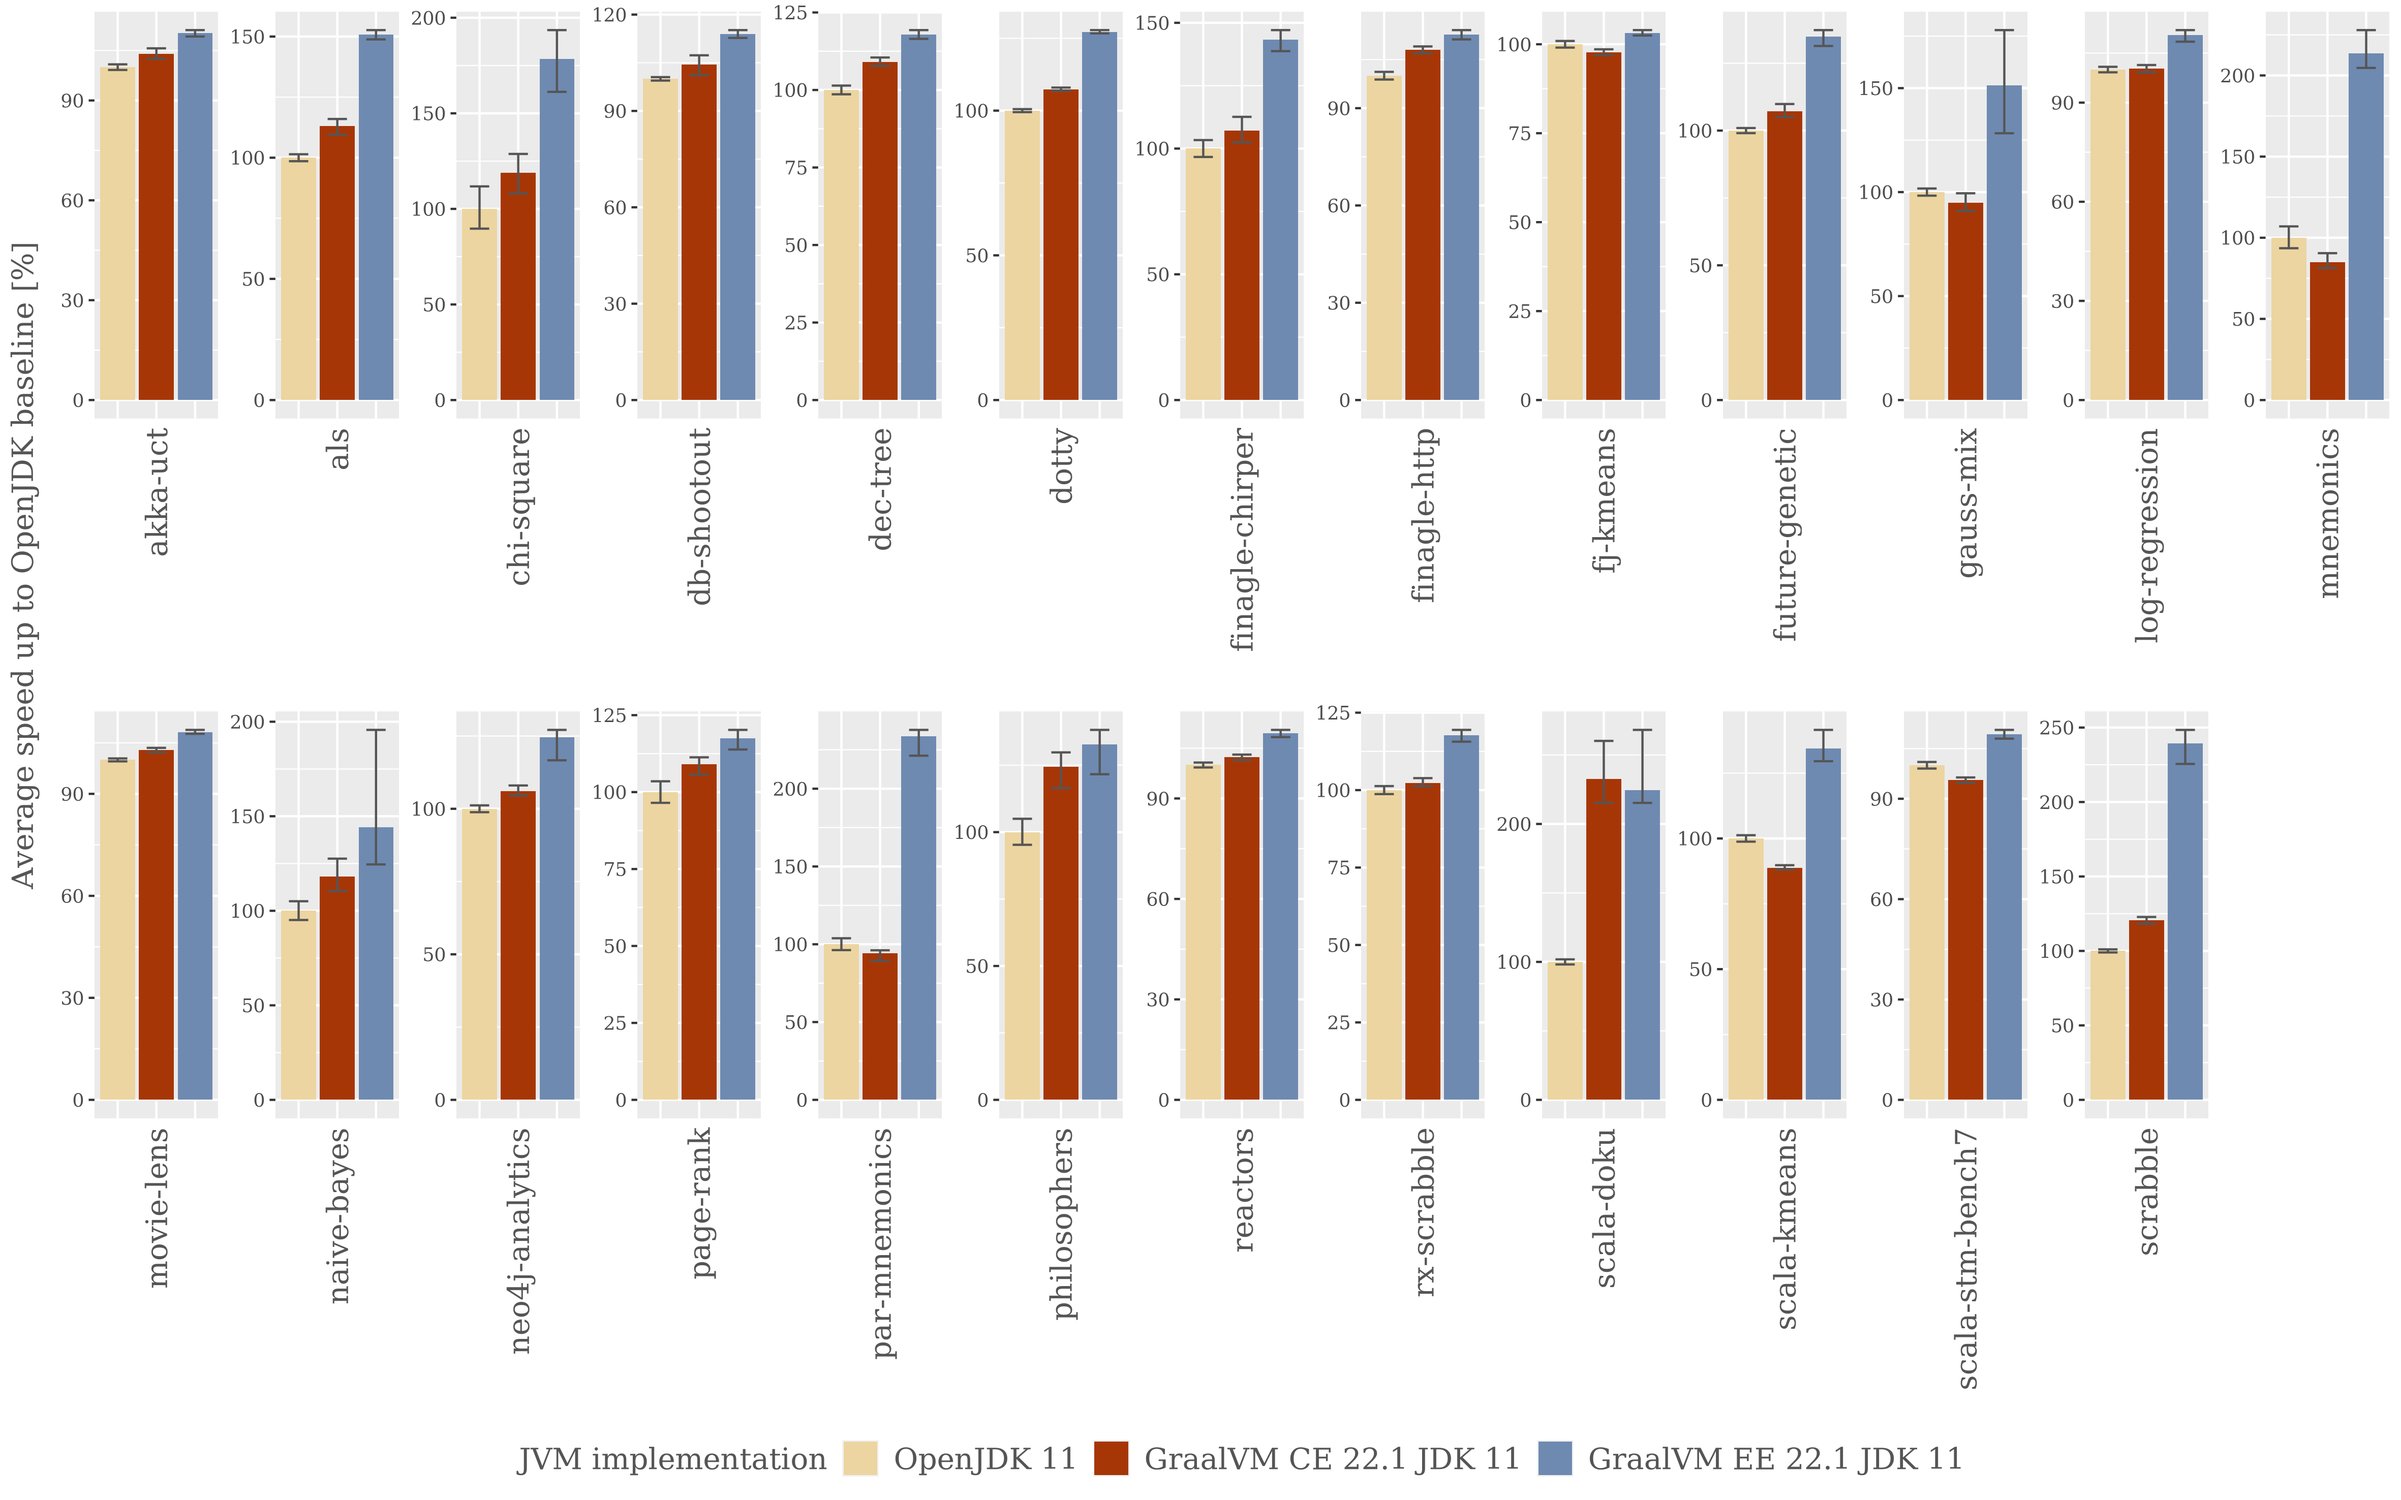
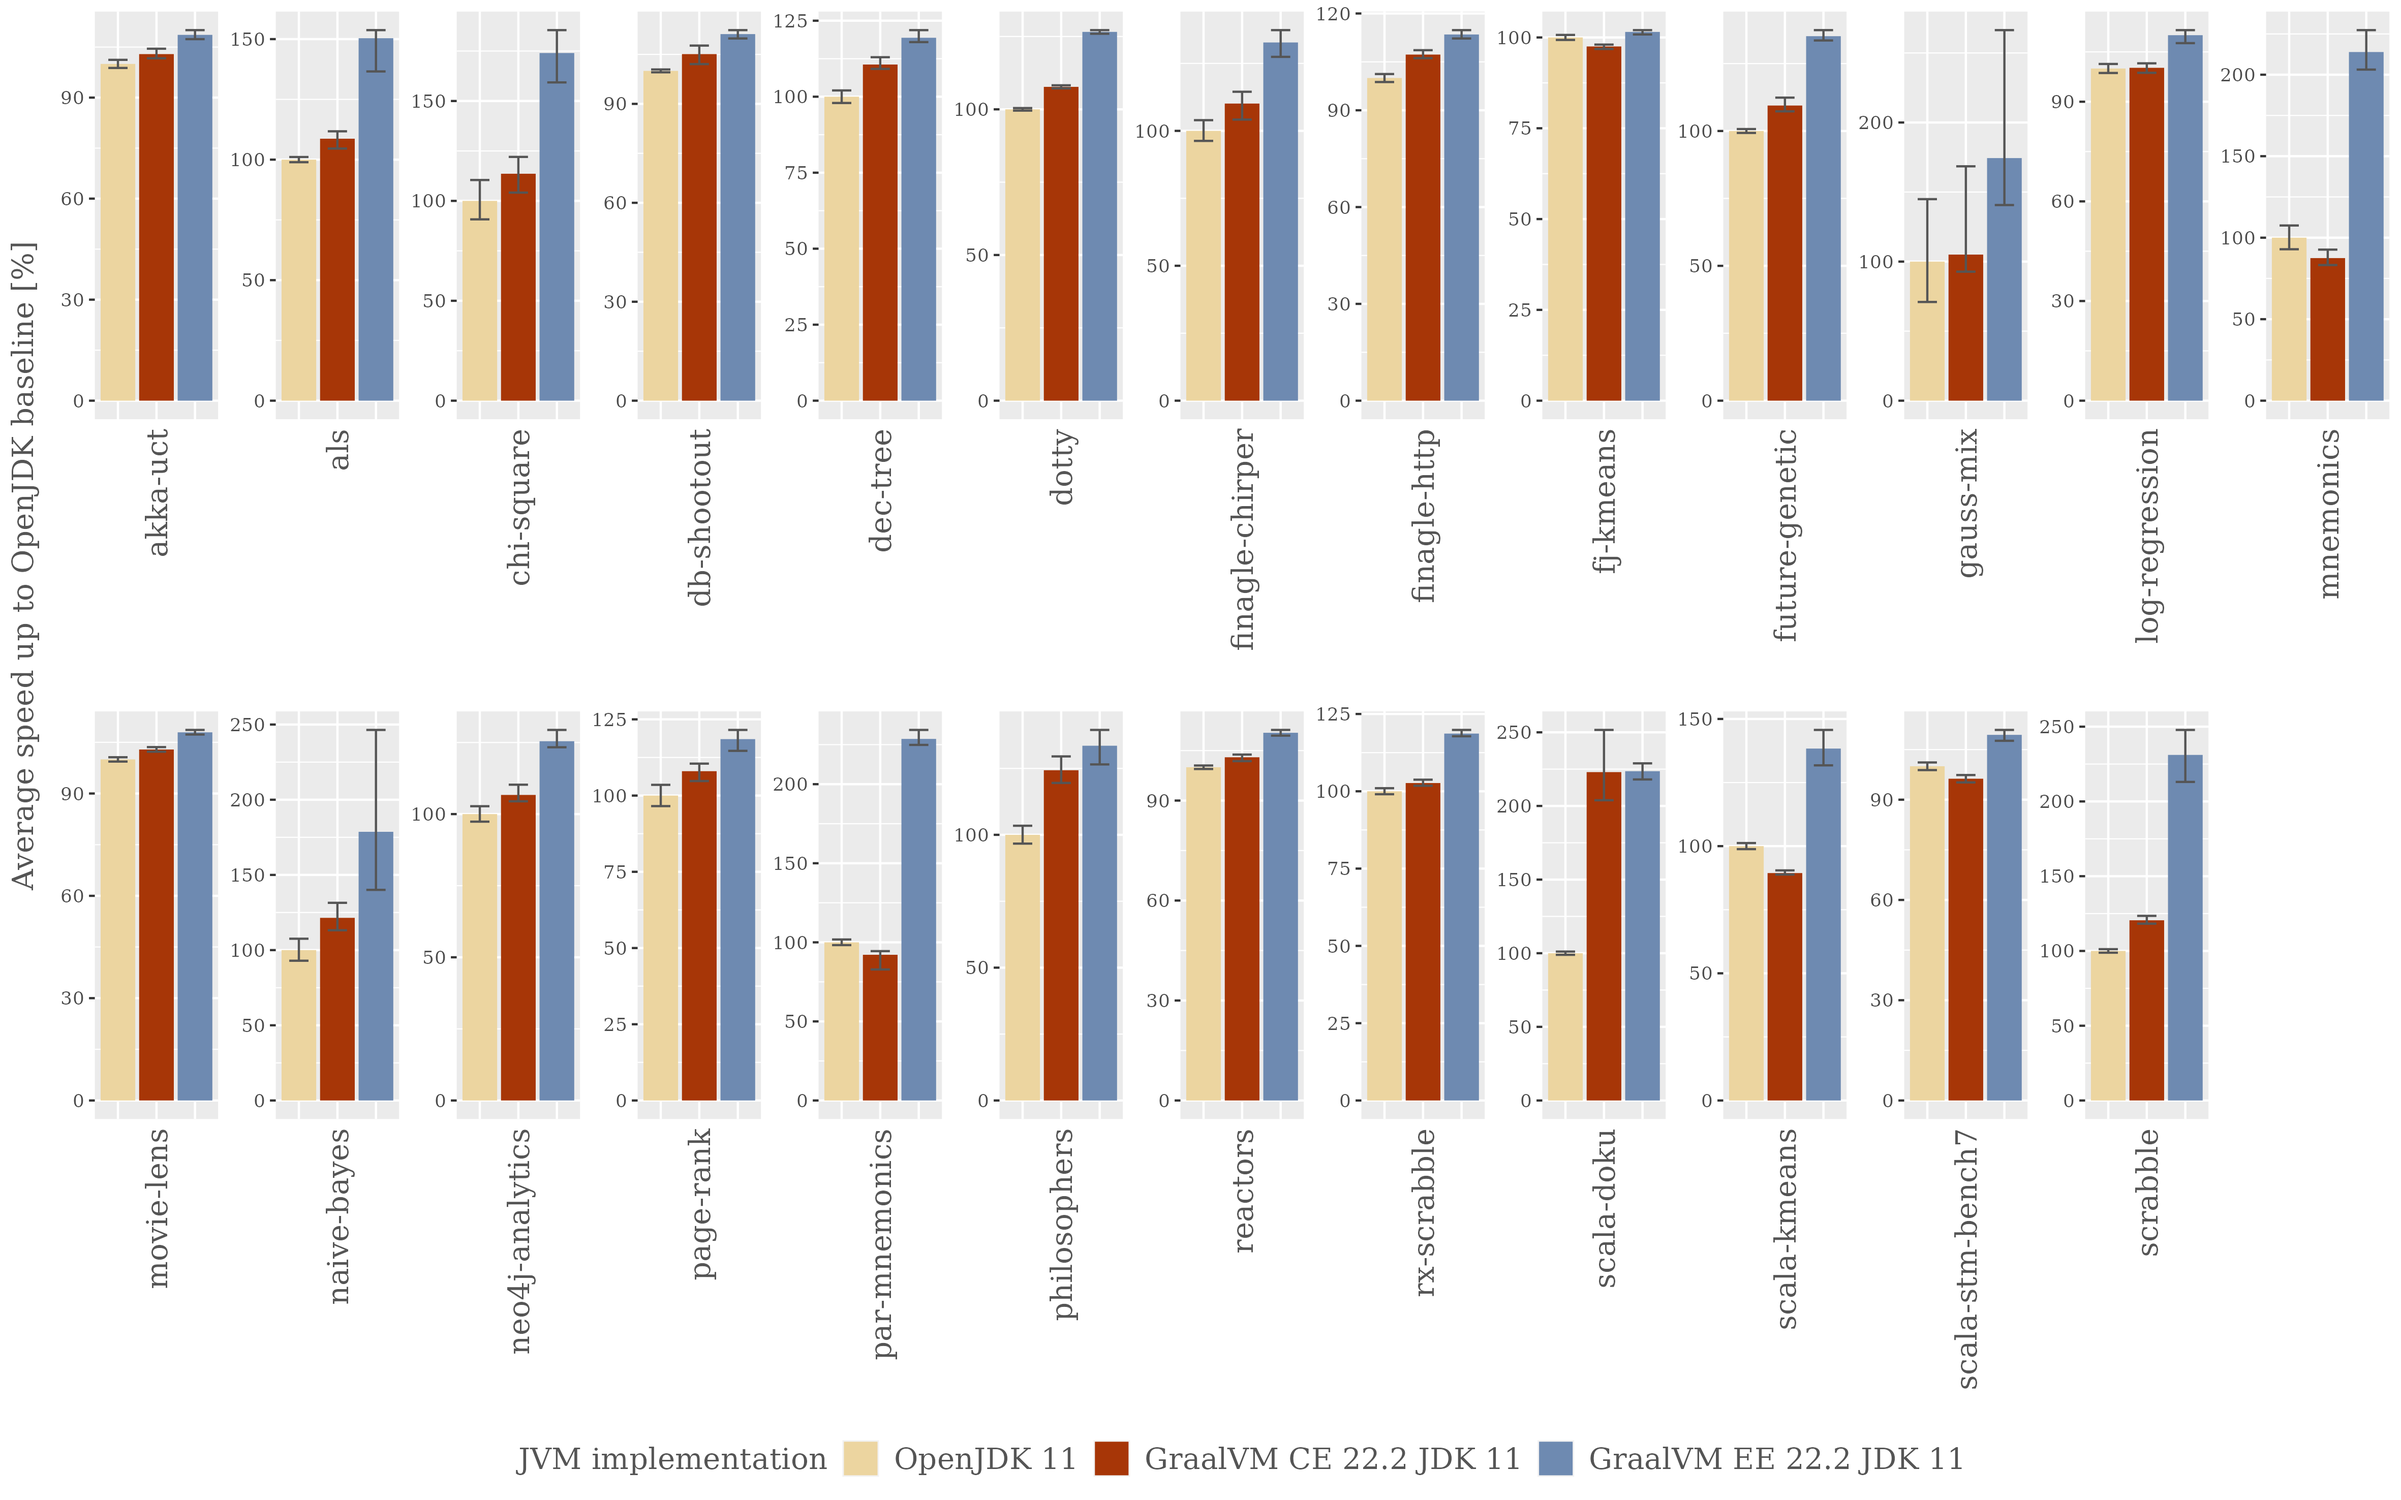
Updated results for GraalVM 22.2.0

diff --git a/README.md b/README.md
@@ -13,7 +13,7 @@ Please note that performance measurements depend on many complex factors and the
 
 ### Measurement information
 
-The current measurements were collected with Renaissance `3eef1364a142426f508c29d1e6604b1ba3d7e23e` on multiple
+The current measurements were collected with Renaissance `dde0f7af00738e640ae0acf68ab66decc8249e15` on multiple
 8 core Intel Xeon E5-2620 v4 machines at 2100 GHz with 64 GB RAM,
 running bare metal Fedora Linux 35 with kernel 5.16.11.
 
@@ -31,32 +31,32 @@ The JVM implementations referenced in the results are:
 
 - **OpenJDK** is the GraalVM Community Edition JVM implementation run with `-XX:-EnableJVMCI -XX:-UseJVMCICompiler` to force the use of the default OpenJDK JIT compiler.
 
-- **GraalVM CE** is GraalVM Community Edition 22.1.0.
+- **GraalVM CE** is GraalVM Community Edition 22.2.0.
 ```
 > java -version
-openjdk version "11.0.15" 2022-04-19
-OpenJDK Runtime Environment GraalVM CE 22.1.0 (build 11.0.15+10-jvmci-22.1-b06)
-OpenJDK 64-Bit Server VM GraalVM CE 22.1.0 (build 11.0.15+10-jvmci-22.1-b06, mixed mode, sharing)
+openjdk version "11.0.16" 2022-07-19
+OpenJDK Runtime Environment GraalVM CE 22.2.0 (build 11.0.16+8-jvmci-22.2-b06)
+OpenJDK 64-Bit Server VM GraalVM CE 22.2.0 (build 11.0.16+8-jvmci-22.2-b06, mixed mode, sharing)
 ```
 ```
 > java -version
-openjdk version "17.0.3" 2022-04-19
-OpenJDK Runtime Environment GraalVM CE 22.1.0 (build 17.0.3+7-jvmci-22.1-b06)
-OpenJDK 64-Bit Server VM GraalVM CE 22.1.0 (build 17.0.3+7-jvmci-22.1-b06, mixed mode, sharing)
+openjdk version "17.0.4" 2022-07-19
+OpenJDK Runtime Environment GraalVM CE 22.2.0 (build 17.0.4+8-jvmci-22.2-b06)
+OpenJDK 64-Bit Server VM GraalVM CE 22.2.0 (build 17.0.4+8-jvmci-22.2-b06, mixed mode, sharing)
 ```
 
-- **GraalVM EE** is GraalVM Enterprise Edition 22.1.0.
+- **GraalVM EE** is GraalVM Enterprise Edition 22.2.0.
 ```
 > java -version
-java version "11.0.15" 2022-04-19 LTS
-Java(TM) SE Runtime Environment GraalVM EE 22.1.0 (build 11.0.15+8-LTS-jvmci-22.1-b05)
-Java HotSpot(TM) 64-Bit Server VM GraalVM EE 22.1.0 (build 11.0.15+8-LTS-jvmci-22.1-b05, mixed mode, sharing)
+java version "11.0.16" 2022-07-19 LTS
+Java(TM) SE Runtime Environment GraalVM EE 22.2.0 (build 11.0.16+11-LTS-jvmci-22.2-b05)
+Java HotSpot(TM) 64-Bit Server VM GraalVM EE 22.2.0 (build 11.0.16+11-LTS-jvmci-22.2-b05, mixed mode, sharing)
 ```
 ```
 > java -version
-java version "17.0.3" 2022-04-19 LTS
-Java(TM) SE Runtime Environment GraalVM EE 22.1.0 (build 17.0.3+8-LTS-jvmci-22.1-b05)
-Java HotSpot(TM) 64-Bit Server VM GraalVM EE 22.1.0 (build 17.0.3+8-LTS-jvmci-22.1-b05, mixed mode, sharing)
+java version "17.0.4" 2022-07-19 LTS
+Java(TM) SE Runtime Environment GraalVM EE 22.2.0 (build 17.0.4+11-LTS-jvmci-22.2-b05)
+Java HotSpot(TM) 64-Bit Server VM GraalVM EE 22.2.0 (build 17.0.4+11-LTS-jvmci-22.2-b05, mixed mode, sharing)
 ```
 
 #### Mean Repetition Times
